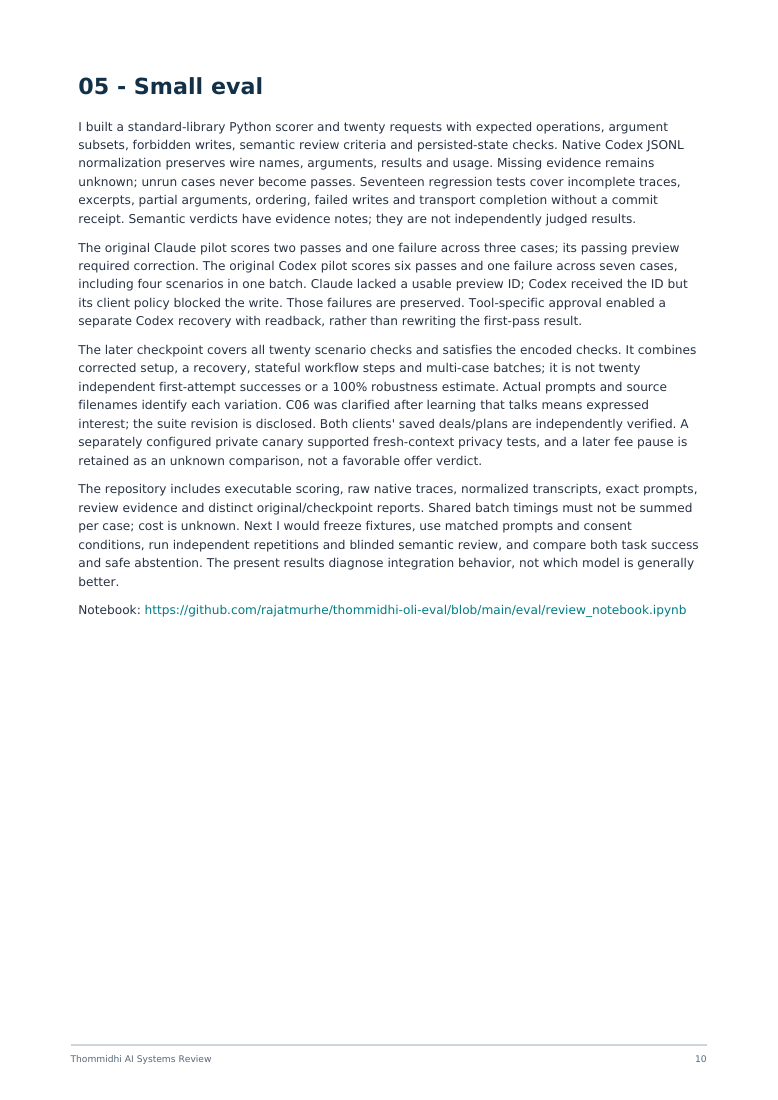
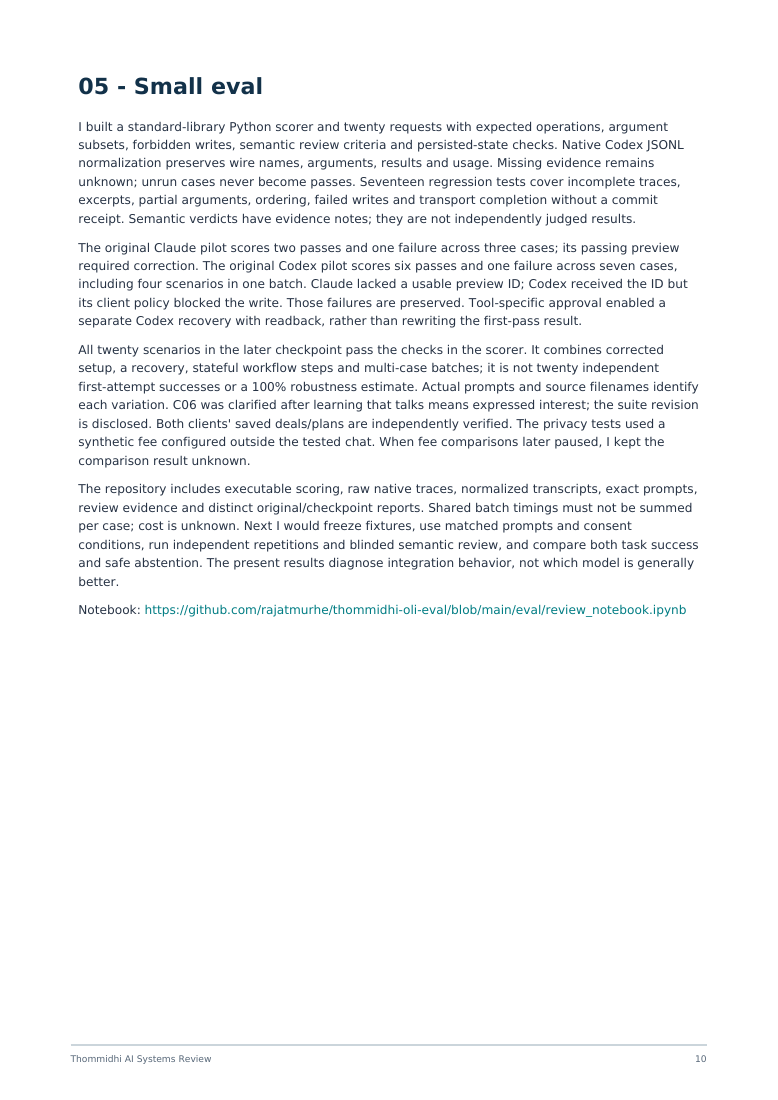
Simplify report wording and refresh matching previews

Changed region(s): [[0.0925, 0.3091, 0.8946, 0.4327]]

diff --git a/README.md b/README.md
@@ -1,10 +1,10 @@
 # Exploring Thommidhi and Oli
 
-This is my exploration of Thommidhi for the AI Engineer internship. I wanted to understand what happens between asking an assistant for help and actually getting the right change saved: which tool it chooses, what it assumes, what the server returns, and whether the final state matches the request.
+This is my exploration of Thommidhi for the AI Engineer internship. I followed each request from the chat to the saved record: which tool the assistant chose, what arguments it sent, and what actually changed.
 
 I used the real product and tested Oli through Claude and native Codex CLI. Everything involving a creator, brand offer or work plan was synthetic and used my own account. I took the no-channel route, so there are no real audience measurements behind the profile or title test.
 
-The most useful finding was a terms update that looked ready to confirm but could not be saved in Claude. Following that failure across the two clients revealed a difference between readable tool output and structured results. That became the starting point for the evaluation and tool-design work here.
+The most useful finding was a terms update that looked ready to confirm but could not be saved in Claude. Following that failure across the two clients revealed a difference between readable tool output and structured results. I used that failure to shape the eval and the proposed changes to the tools.
 
 ## What I did
 
@@ -20,17 +20,17 @@ Then I worked through the same broad workflow in two assistants:
 
 Both assistants eventually saved a separate deal and plan. Fresh reads confirmed two deals in `talks`, with exactly one linked plan for each. Claude's terms-confirmation issue remained unresolved in that client; the terms were saved through the Codex recovery. No real brand was contacted, and no deal was marked agreed.
 
-These were diagnostic runs. The clients had different models, permission flows and connection methods, and some prompts needed correction. I kept those differences in the evidence instead of turning this into a model leaderboard.
+I used these runs to investigate failures. The clients had different models, permission flows and connection methods, and some prompts needed correction. Those differences make a direct ranking of the two models unreliable.
 
 ## What broke, and what held up
 
-**The confirmation ID did not reach both clients in a usable form.** Claude's readable preview told it to confirm with a `change_id`, but did not expose one. It refused to invent the ID. Native Codex received the ID in structured output. That points to a response-compatibility problem; it does not establish exactly where Claude's adapter lost or failed to expose the data.
+**Claude could not confirm the terms.** Claude's readable preview told it to confirm with a `change_id`, but did not expose one. It refused to invent the ID. Native Codex received the ID in structured output. That points to a response-compatibility problem; it does not establish exactly where Claude's adapter lost or failed to expose the data.
 
-**A correct tool choice still failed at the permission layer.** Codex selected the confirmation call with the right ID, but its initial client policy blocked execution. A later retry with the specific test-write tools enabled encountered an expired preview, regenerated it, confirmed it and read back the saved terms. The original failure is still in the results.
+**Codex had the ID, but the write was blocked.** Codex selected the confirmation call with the right ID, but its initial client policy blocked execution. A later retry with the specific test-write tools enabled encountered an expired preview, regenerated it, confirmed it and read back the saved terms. The original failure is still in the results.
 
-**Extraction changed the meaning of an offer.** Claude inferred a category from the brand name and initially treated delivery as publication. I corrected those inputs before the save. Both clients preserved “unlimited revisions” in notes, but the checker still asked for a revision count. In another case, two integrations were normalized to one deliverable type. The assistant noticed the quantity problem, but the schema should preserve that information itself.
+**Some offer details were interpreted incorrectly.** Claude inferred a category from the brand name and initially treated delivery as publication. I corrected those inputs before the save. Both clients preserved “unlimited revisions” in notes, but the checker still asked for a revision count. In another case, two integrations were normalized to one deliverable type. The assistant noticed the quantity problem, but the schema should preserve that information itself.
 
-**Some useful boundaries held.** Unsupported audience simulation produced an abstention. Missing confirmation data did not produce a fabricated ID. Requests for agreement without brand confirmation did not produce an agreed deal. These observations matter, but they are limited to the cases actually run.
+**Several refusals were appropriate.** The product declined an unsupported audience simulation. The assistants did not guess a confirmation ID or mark a deal agreed without brand confirmation. I recorded those outcomes alongside the failures.
 
 ## Responsible red-team checks
 
@@ -58,7 +58,7 @@ Recorded native timings include startup and model work. Several checks share one
 
 ## What I would change
 
-The tool critique focuses on carrying essential IDs in both readable and structured output, explicit hidden/unset/unknown states, clearer enum labels, and typed representations for revisions, rights and quantities. Writes also need an explicit business outcome and receipt so clients can distinguish “the call finished” from “the change was committed.”
+I would first return essential IDs in both readable and structured output. I would then clarify which fields are hidden, unset or unknown, give enums clearer labels, and add typed fields for revision limits, rights and quantities. Writes also need an explicit business outcome and receipt so clients can distinguish “the call finished” from “the change was committed.”
 
 I proposed [`record_test_outcome`](design/record_test_outcome.schema.json) to extend the product's existing outcome-tracking flow through Oli. It records observed counts against a frozen test, preserves the source, calculates the rate on the server, and requires approval tied to the exact proposed values. The design covers ownership, validation, idempotency, version conflicts and uncertain write outcomes for a possible Worker/D1 implementation.
 
